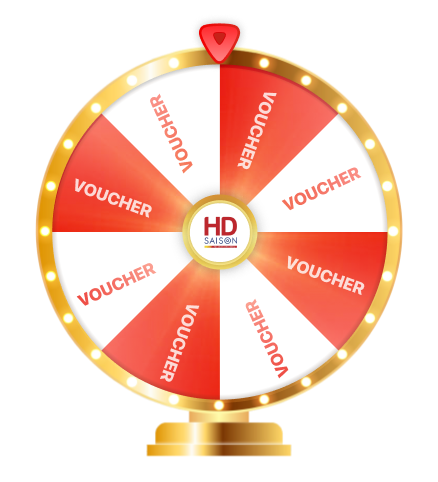
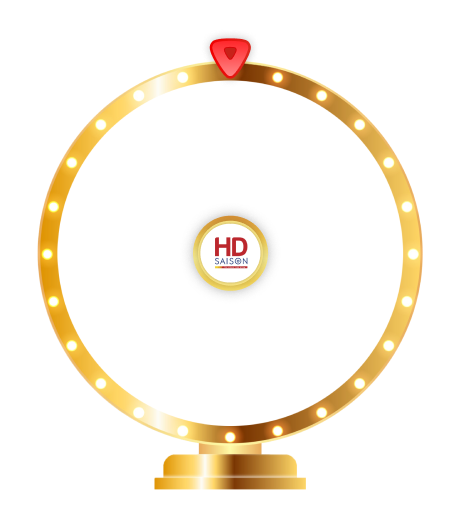
update wheelback

Changed region(s): [[0.0594, 0.0311, 0.9201, 0.9647], [0.0594, 0.4357, 0.089, 0.4668]]

diff --git a/src/app/components/win-wheel/win-wheel.component.ts b/src/app/components/win-wheel/win-wheel.component.ts
@@ -114,15 +114,15 @@ export class WinWheelComponent implements OnInit, AfterViewInit {
   }
   ngAfterViewInit(): void {
     this.theWheel = new Winwheel({
-      outerRadius: 154, // Use these three properties to
+      outerRadius: 151, // Use these three properties to
       innerRadius: 34, // Set inner radius to make wheel hollow.
-      centerX: 200.8, // correctly position the wheel
-      centerY: 225, // over the background.
+      centerX: 199.5, // correctly position the wheel
+      centerY: 228, // over the background.
       lineWidth: 2,
       numSegments: 0,
       textFontSize: 10,
       textAlignment: 'inner',
-      textMargin: 8,
+      textMargin: 6,
       responsive: true, // This wheel is responsive!
       segments: [],
       animation: {
